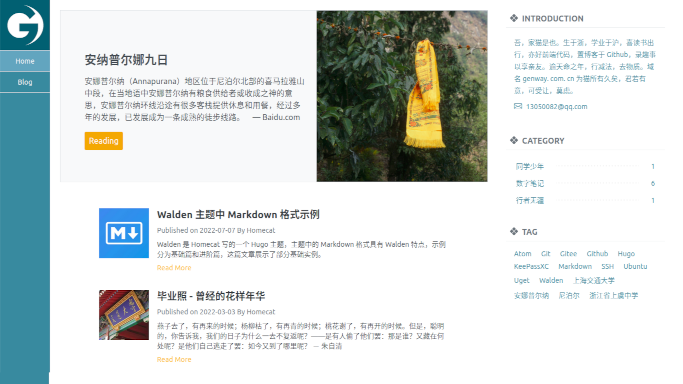
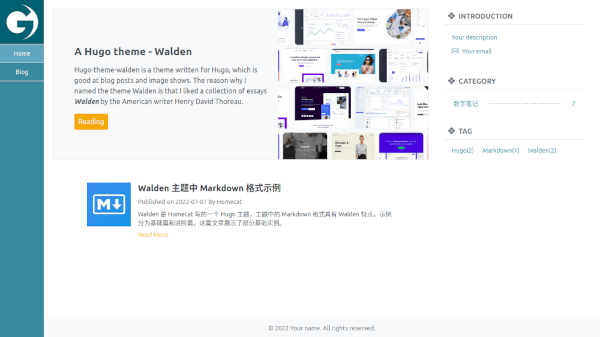
Modify img

diff --git a/layouts/_default/single.html b/layouts/_default/single.html
@@ -4,7 +4,7 @@
 
 
 {{ define "stage-center" }}
-<div class="stage-center-inner-container">
+<div class="stage-center-container">
     <main class="home-main">
         {{- partial "content.html" . -}}
     </main>

diff --git a/exampleSite/content/blog/walden-readme.md b/exampleSite/content/blog/walden-readme.md
@@ -7,11 +7,11 @@ tags: ["Walden","Hugo"]
 thumbnail: "blog/images/thumbnail/hugo.jpg"
 headline:
    enabled: true
-   imgurl: "blog/images/thumbnail/default.png"
+   imgurl: ""
 draft: false
 ---
 
-Hugo-theme-walden is a theme written specifically for Hugo and is primarily used for blog posts and image shows. The reason why I named the theme Walden is that I liked a collection of essays - *Walden*  by the American writer Henry David Thoreau.
+Hugo-theme-walden is a theme written for Hugo, which is good at blog posts and image shows. The reason why I named the theme Walden is that I liked a collection of essays  ***Walden***  by the American writer Henry David Thoreau.
 
 <!--more-->
 
